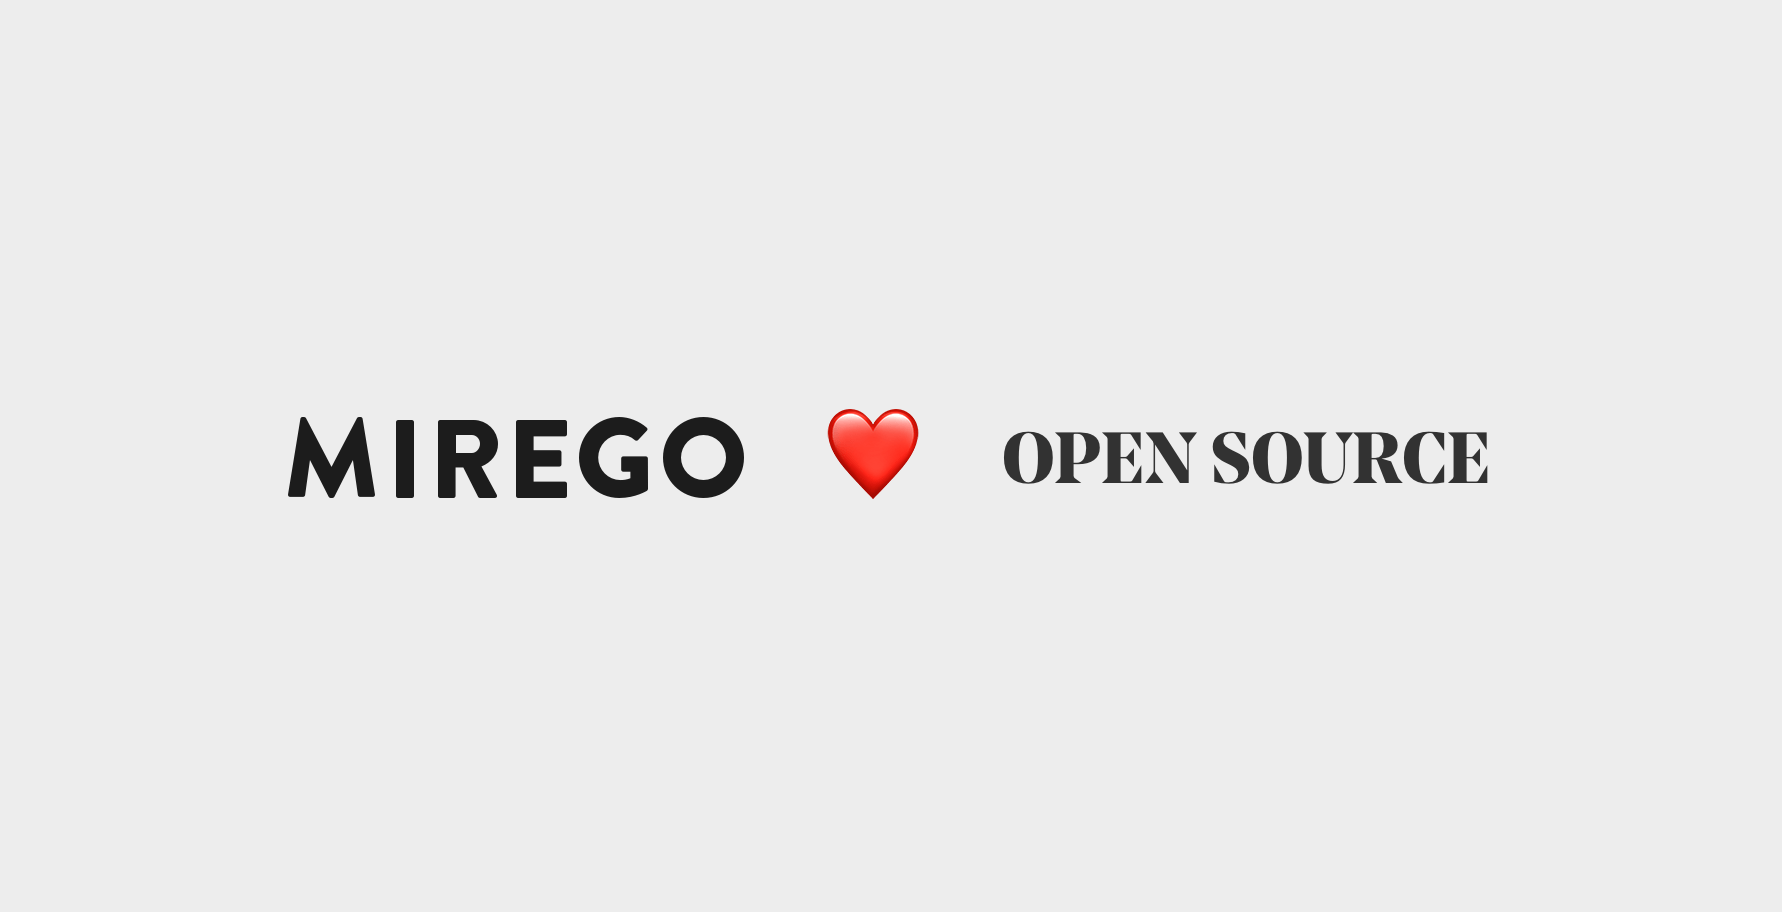
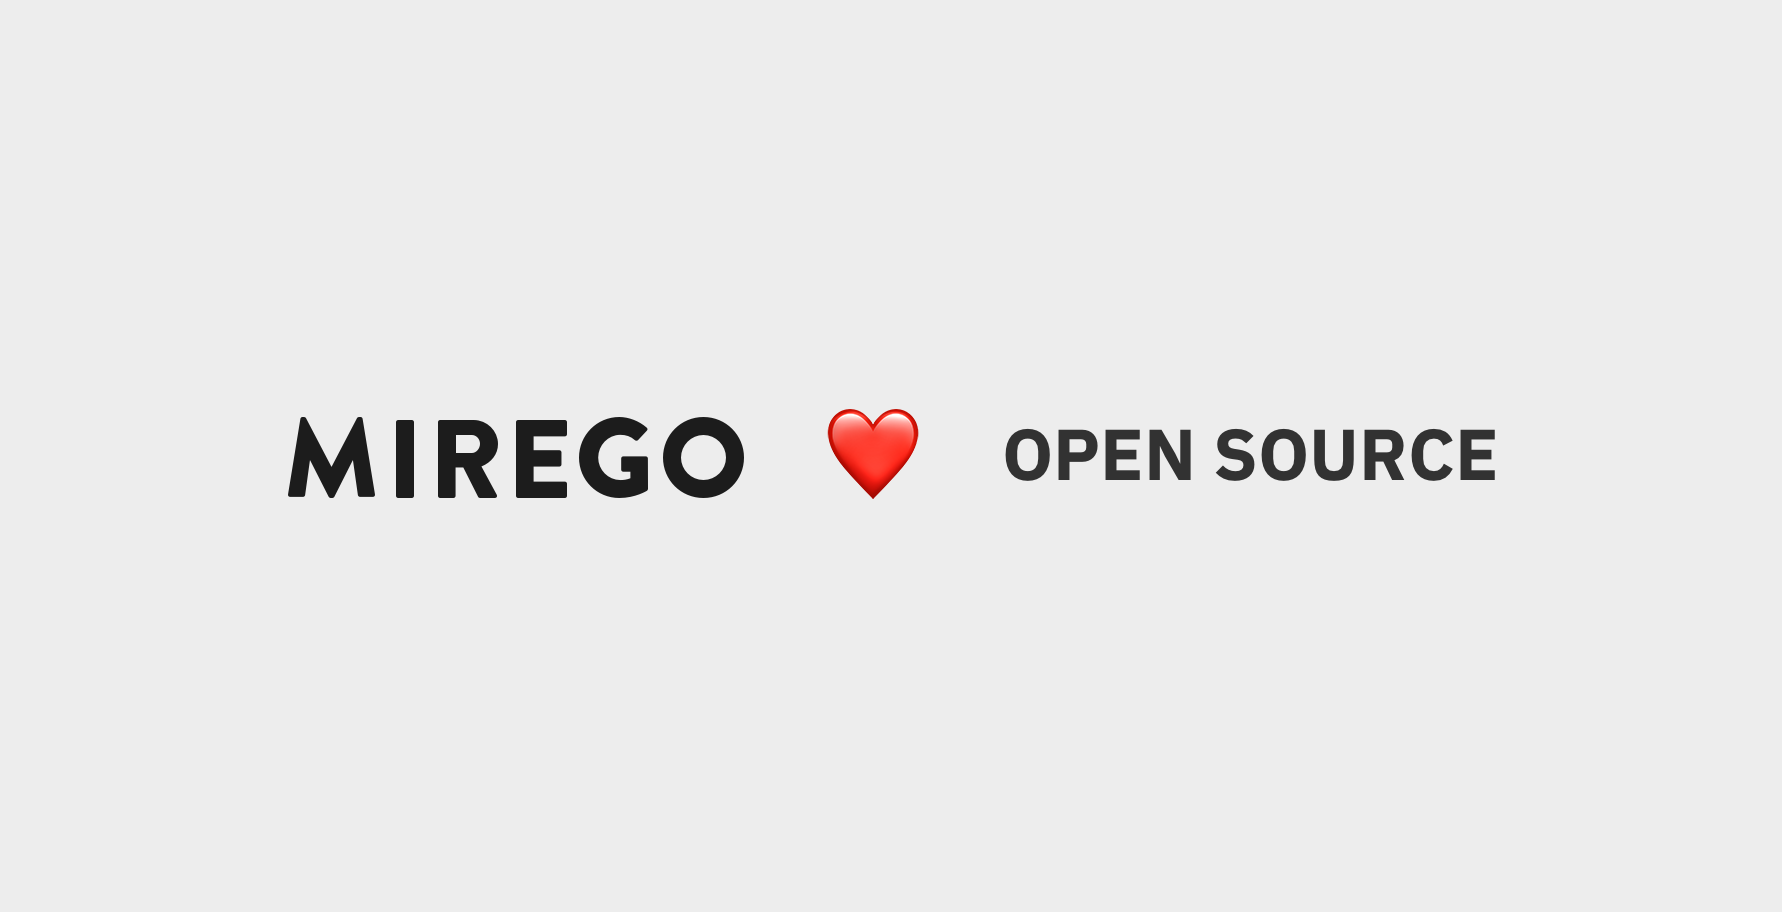
Refresh some visual stuff

Changed region(s): [[0.5556, 0.4605, 0.8333, 0.5526]]

diff --git a/src/components/Project.js b/src/components/Project.js
@@ -3,7 +3,7 @@ import styled from '@emotion/styled';
 
 const Link = styled.a`
   display: block;
-  width: calc(33.3333% - 10px);
+  width: calc(25% - 10px);
   border: 1px solid rgba(0, 0, 0, 0.01);
   border-radius: 3px;
   margin: 0 5px 10px;
@@ -18,11 +18,17 @@ const Link = styled.a`
 
   @media (max-width: 980px) {
     & {
+      width: calc(33.3333% - 10px);
+    }
+  }
+
+  @media (max-width: 720px) {
+    & {
       width: calc(50% - 10px);
     }
   }
 
-  @media (max-width: 810px) {
+  @media (max-width: 600px) {
     & {
       width: 100%;
       margin-right: 0;
@@ -60,10 +66,10 @@ const Name = styled.strong`
   padding: 0 0 14px;
   background: #fff;
   text-align: center;
-  font-family: 'noe', serif;
   font-size: 16px;
   font-weight: bold;
   color: rgba(0, 0, 0, 0.75);
+  word-wrap: wrap;
 
   @media (max-width: 720px) {
     & {
@@ -75,6 +81,7 @@ const Name = styled.strong`
 const Description = styled.span`
   display: block;
   padding: 6px 0 0;
+  font-size: 12px;
   color: rgba(0, 0, 0, 0.75);
 `;
 

diff --git a/src/styles/global.css b/src/styles/global.css
@@ -1,13 +1,3 @@
-@font-face {
-  font-family: 'noe';
-  font-style: normal;
-  font-weight: 600;
-  src: url('https://fonts.mirego.com/fonts/noe-display-bold.eot');
-  src: url('https://fonts.mirego.com/fonts/noe-display-bold.eot?#iefix')
-      format('embedded-opentype'),
-    url('https://fonts.mirego.com/fonts/noe-display-bold.woff') format('woff');
-}
-
 body {
   padding: 40px 0;
   font-family: 'IBM Plex Sans', sans-serif;

diff --git a/src/components/Layout.js b/src/components/Layout.js
@@ -5,9 +5,6 @@ import {useSiteMetadata} from '../utils/use-site-metadata';
 import Favicon from '../images/favicon.png';
 import OpenGraphImage from '../images/social.png';
 
-import 'simple-css-reset/reset.css';
-import '../styles/global.css';
-
 /* eslint-disable jsx-a11y/accessible-emoji */
 export default function Layout({children, variant}) {
   const {title, description, siteUrl} = useSiteMetadata();

diff --git a/src/components/Header.js b/src/components/Header.js
@@ -10,7 +10,6 @@ const Header = styled.header`
   padding: 30px 0 70px;
   text-align: center;
   text-transform: uppercase;
-  font-family: 'noe', serif;
   font-size: 32px;
   font-weight: bold;
   line-height: 1;
@@ -37,7 +36,6 @@ const Symbol = styled.span`
 
 const Term = styled.span`
   display: block;
-  padding: 5px 0 0;
 `;
 
 export default () => (

diff --git a/src/components/Wrapper.js b/src/components/Wrapper.js
@@ -5,8 +5,15 @@ const Content = styled.div`
   position: relative;
   z-index: 1;
   width: 100%;
-  max-width: 800px;
+  max-width: 960px;
   margin: 0 auto;
+  padding: 0 20px;
+
+  @media (max-width: 600px) {
+    & {
+      padding: 0;
+    }
+  }
 `;
 
 export default ({children}) => <Content>{children}</Content>;

diff --git a/src/components/Intro.js b/src/components/Intro.js
@@ -3,12 +3,12 @@ import styled from '@emotion/styled';
 
 const Content = styled.div`
   width: 100%;
-  max-width: 580px;
+  max-width: 640px;
   padding: 20px 25px;
   border-radius: 3px;
   margin: 0 auto 60px;
   background: rgba(0, 0, 0, 0.04);
-  font-size: 15px;
+  font-size: 14px;
   color: #333;
 `;
 

diff --git a/src/components/Gem.js b/src/components/Gem.js
@@ -4,7 +4,7 @@ import styled from '@emotion/styled';
 import Gem from '../images/gem.svg';
 
 const Image = styled.img`
-  position: absolute;
+  position: fixed;
   z-index: 0;
   top: -100px;
   right: 0;

diff --git a/src/components/Subtitle.js b/src/components/Subtitle.js
@@ -11,7 +11,6 @@ const Content = styled.div`
 const Title = styled.h2`
   margin: 0 0 5px;
   text-align: center;
-  font-family: 'noe', serif;
   font-size: 26px;
   font-weight: bold;
   color: #444;

diff --git a/gatsby-browser.js b/gatsby-browser.js
@@ -1,0 +1,2 @@
+import 'simple-css-reset';
+import './src/styles/global.css';
